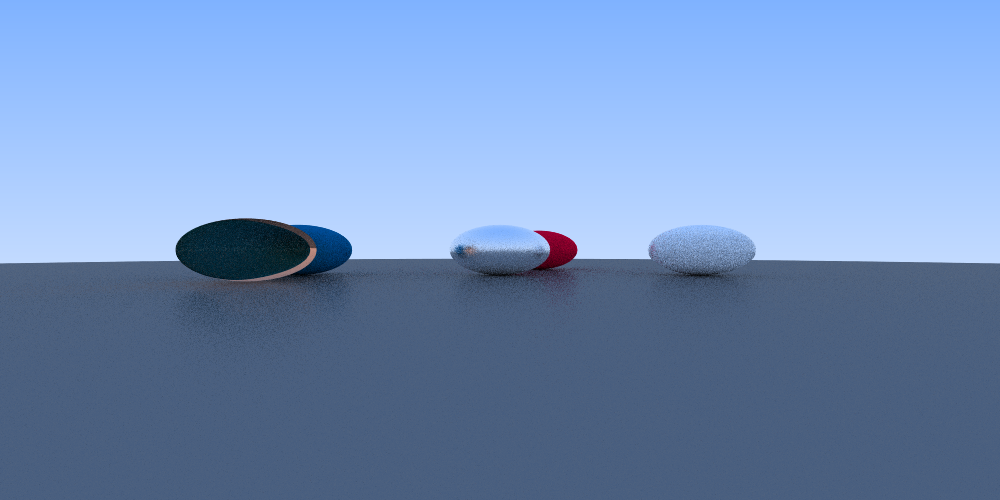
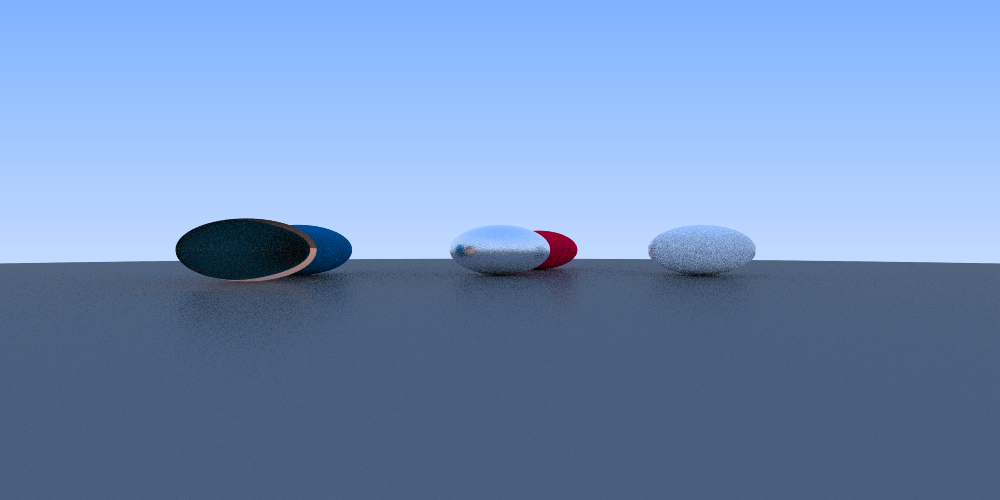
See changelog .15

diff --git a/code/raytracer.cc b/code/raytracer.cc
@@ -52,7 +52,7 @@ Raytracer::Raytrace()
     {
         for (int y = 0; y < this->height; ++y)
         {
-            color = {0, 0, 0};
+            color = {0.0f, 0.0f, 0.0f};
             for (int i = 0; i < this->rpp; ++i)
             {
                 float u = ((float(x + distX[i]) * fracWidth) * 2.0f) - 1.0f;
@@ -60,13 +60,11 @@ Raytracer::Raytrace()
 
                 ray = Ray(get_position(this->view), transform({u, v, -1.0f}, this->frustum));
                 numras++;
-                color += this->TracePath(ray, 0);
+                color += this->TracePath(ray, this->bounces);
             }
 
             // divide by number of samples per pixel, to get the average of the distribution
-            color.x *= sampleFraction;
-            color.y *= sampleFraction;
-            color.z *= sampleFraction;
+            color *= sampleFraction;
 
             this->frameBuffer[y * this->width + x] += color;
         }
@@ -96,29 +94,32 @@ Raytracer::RaytracePixel(const float& x, const float& y)
  * @parameter n - the current bounce level
 */
 vec3
-Raytracer::TracePath(const Ray& ray, const unsigned& n)
+Raytracer::TracePath(Ray& ray, unsigned n)
 {
     vec3 hitPoint;
     vec3 hitNormal;
     Object hitObject;
     float distance = FLT_MAX;
 
-    if (Raycast(ray, hitPoint, hitNormal, distance, hitObject))
+    vec3 color {1.0f, 1.0f, 1.0f};
+    Material* material;
+
+    while (n > 0) // count down
     {
-        Ray scatteredRay = Ray(ScatterRay(ray, hitPoint, hitNormal, hitObject));
-        numras++;
-        if (n < this->bounces)
+        if (Raycast(ray, hitPoint, hitNormal, distance, hitObject))
         {
-            return bm.getColor(hitObject) * this->TracePath(scatteredRay, n + 1);
-        }
+            material = bm._materials->data + hitObject.id;
+            color *= material->color;
 
-        if (n == this->bounces)
-        {
-            return {0,0,0};
+            ray = BSDF(*material, ray, hitPoint, hitNormal);
+            numras++;
+            
+            n--;
+            continue;
         }
+        return color *= this->Skybox(ray.direction);
     }
-
-    return this->Skybox(ray.direction);
+    return color *= {0.0f, 0.0f, 0.0f};
 }
 
 //------------------------------------------------------------------------------
@@ -130,14 +131,19 @@ Raytracer::Raycast(const Ray& ray, vec3& hitPoint, vec3& hitNormal, float& dista
     bool isHit = false;
     HitResult closestHit;
     HitResult hit;
-    
+
+    Object* obj;
+    Transform* trans;
+
     for (int i = 0; i < bm._objects->n; i++)
     {
-        Object& obj = *(bm._objects->data + i);
-        if (IntersectSphere(hit, ray, closestHit.t, bm.getTransform(obj)))
+        obj = (bm._objects->data + i);
+        trans = (bm._transforms->data + i);
+
+        if (IntersectSphere(hit, ray, closestHit.t, *trans))
         {
             closestHit = hit;
-            closestHit.object = obj;
+            closestHit.object = *obj;
             isHit = true;
         }
     }

diff --git a/code/vec3.h b/code/vec3.h
@@ -44,6 +44,22 @@ public:
         return *this;
     }
 
+    vec3& operator*=(const vec3& rhs)
+    {
+        this->x *= rhs.x;
+        this->y *= rhs.y;
+        this->z *= rhs.z;
+        return *this;
+    }
+
+    vec3& operator*=(const float& f)
+    {
+        this->x *= f;
+        this->y *= f;
+        this->z *= f;
+        return *this;
+    }
+
     vec3 operator+(const vec3& rhs) const { return {x + rhs.x, y + rhs.y, z + rhs.z};}
     vec3 operator-(const vec3& rhs) const { return {x - rhs.x, y - rhs.y, z - rhs.z};}
     vec3 operator-() const { return {-x, -y, -z};}

diff --git a/code/raytracer.h b/code/raytracer.h
@@ -34,7 +34,7 @@ public:
 
     // trace a path and return intersection color
     // n is bounce depth
-    vec3 TracePath(const Ray& ray, const unsigned& n);
+    vec3 TracePath(Ray& ray, unsigned n);
 
     // get the color of the skybox in a direction
     vec3 Skybox(const vec3& direction);
